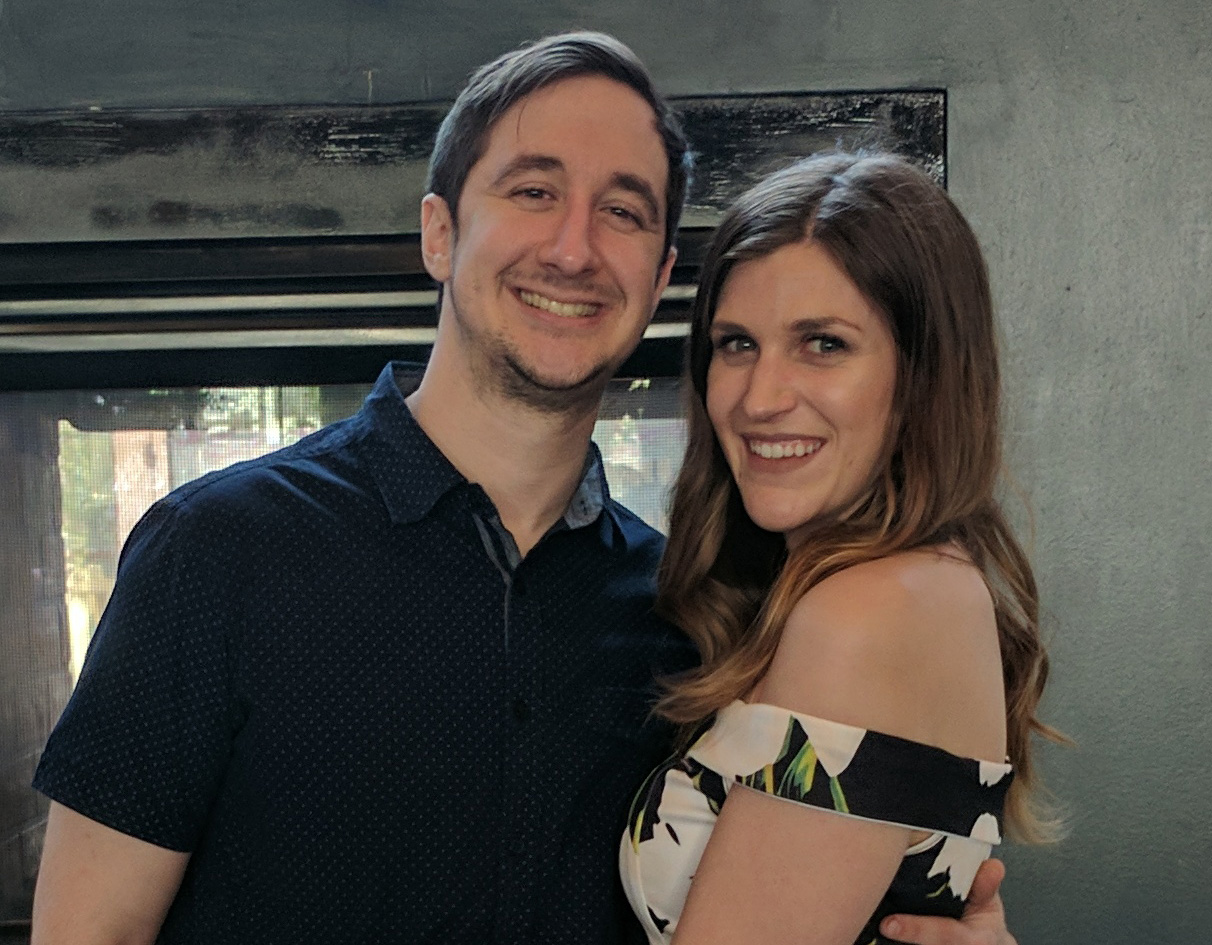
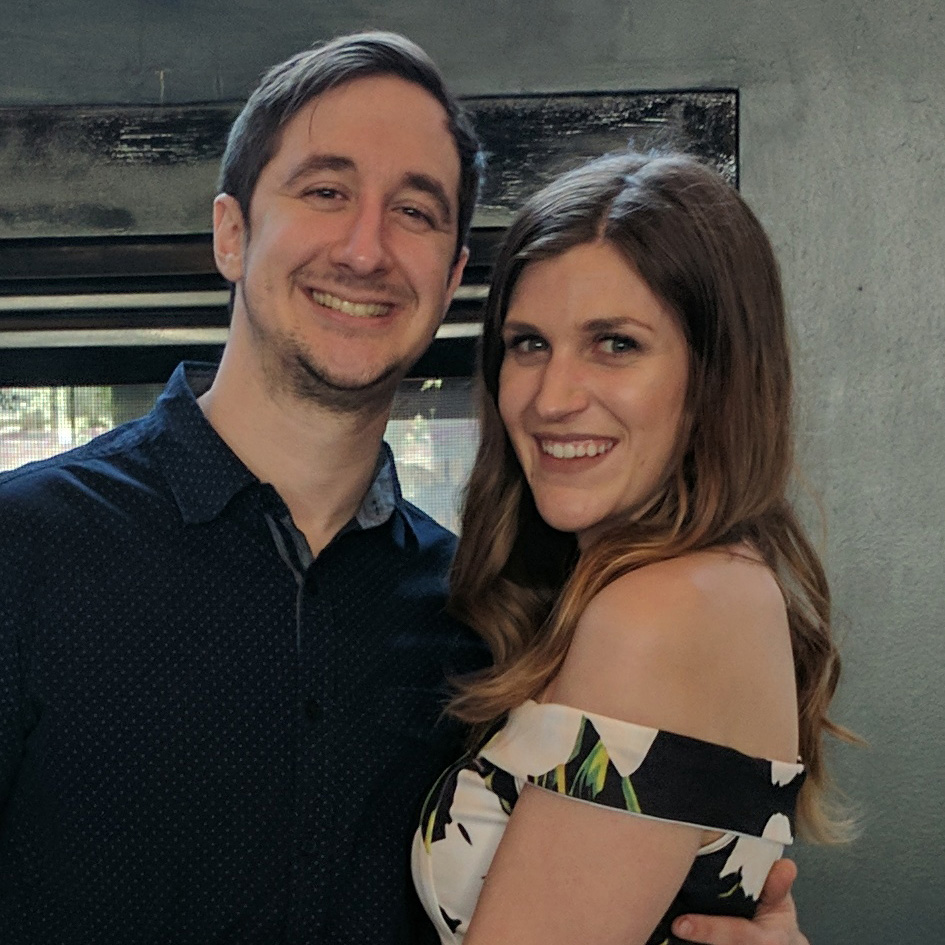
finished about base

diff --git a/index.html b/index.html
@@ -18,18 +18,29 @@
                     <a href="javascript:void(0);" onclick="javascript:linkClicked(this);" data-link-key="skillset" class="mainLink">Skillset</a><br/>
                     <a href="javascript:void(0);" onclick="javascript:linkClicked(this);" data-link-key="experience" class="mainLink">Experience</a><br/>
                     <a href="javascript:void(0);" onclick="javascript:linkClicked(this);" data-link-key="contact" class="mainLink">Contact</a><br/>
-                </div>
-                
-                <div id="textContent" class="right">
-                    
-                </div>
+                </div>                
+                <div id="textContent" class="right"></div>
             </div>
 
             <div class="hiddenContent" style="display: none;">
                 <div id="about">
                     <h2>About</h2>
-                    <p>This is where I'll put my About Me stuff.  Uhh, I'm 25, Computer Engineer, etc etc.</p>
-                    <img class="aboutImg" src="assets/self_pic.jpg" width="250px"/>
+                    <div class="aboutMain">
+                        <div class="aboutMainLeft">
+                            <p>Nice to meet you!  I am a Software Engineer and Web Developer currently living in Boston, MA.</p>
+                            <p>When I'm not busy programming at work, you'll likely find me programming at home.  I create video 
+                                games, design embedded software systems, and create web and desktop applications for fun!</p>
+                        </div>
+                        <div class="aboutMainRight">
+                            <img class="aboutImg" src="assets/self_pic.jpg"/>
+                        </div>
+                    </div>
+                    <div class="dividerContainer">
+                        <div class="divider"></div>
+                    </div>
+                    <div class="aboutMeJsonContainer">
+                        <pre id="aboutMeJson"></pre>
+                    </div>
                 </div>
                 <div id="skillset">
                     <h2>Skillset</h2>

diff --git a/main.js b/main.js
@@ -1,11 +1,37 @@
 var Constants = {
     NAME : "Jake Demian"
-}
+};
 
 var barColors = {
     "5":"#4286f4",
     "4":"#4286f4",
     "3":"#4286f4"
+
+};
+
+var bornDate = new Date(1991, 11, 9, 0, 6, 0, 0);
+var nowDate = new Date();
+
+var aboutMeJson = {
+    "name":"Jacob R. Demian",
+    "age": getExactAge().toFixed(10),
+    "title":"Software Engineer",
+    "pets":"dog",
+    "interests":[
+        "programming",
+        "working out",
+        "watching space documentaries",
+        "video games"
+    ],
+    "numOfTimesWatchedSuperbad": 37,
+    "numOfSandwichesEaten": (Math.floor(getExactAge() * 365))
+}
+
+var currentPage = null;
+
+function getExactAge(){
+    nowDate = new Date();
+    return (nowDate-bornDate )/1000/60/60/24/365;
 }
 
 function typeName(endIdx){
@@ -31,6 +57,17 @@ function toggleCursorFlash(){
     setTimeout(function(){toggleCursorFlash()}, 500);
 }
 
+function initAboutContent(){
+    aboutMeJson.age = getExactAge().toFixed(10);
+    $("#aboutMeJson").html(JSON.stringify(aboutMeJson, undefined, 2));
+    
+    if(currentPage == "about"){
+        setTimeout(function(){
+            initAboutContent();
+        }, 10);
+    }
+}
+
 function initSkillsContent(){
     var skillValueBars = $(".skill-value");
     for(var i = 0; i < skillValueBars.length; i++){
@@ -53,8 +90,11 @@ function linkClicked(ele){
 
         $("#textContent").fadeOut(100, function(){
             $("#textContent").html(content.html());
+            currentPage = key;
 
-            if(key == "skillset"){
+            if(key == "about"){
+                initAboutContent();
+            } else if(key == "skillset"){
                 initSkillsContent();
             }
 

diff --git a/css/about.css b/css/about.css
@@ -1,3 +1,29 @@
+.aboutMainLeft{
+    float: left;
+    width: 50%;
+    line-height: 1.5;
+}
+
+.aboutMainRight{
+    margin-left: 50%;
+}
+
 .aboutImg{
-    border-radius: 5px;
+    border-radius: 100%;
+    width: 200px;
+}
+
+.dividerContainer{
+    height: 10px;
+    width: 100%;
+    margin-top: 70px;
+    margin-bottom: 30px;
+    text-align: center;
+}
+
+.divider{
+    width: 150px;
+    height: 2px;
+    background-color: #4286f4;
+    margin: 0 auto;
 }
